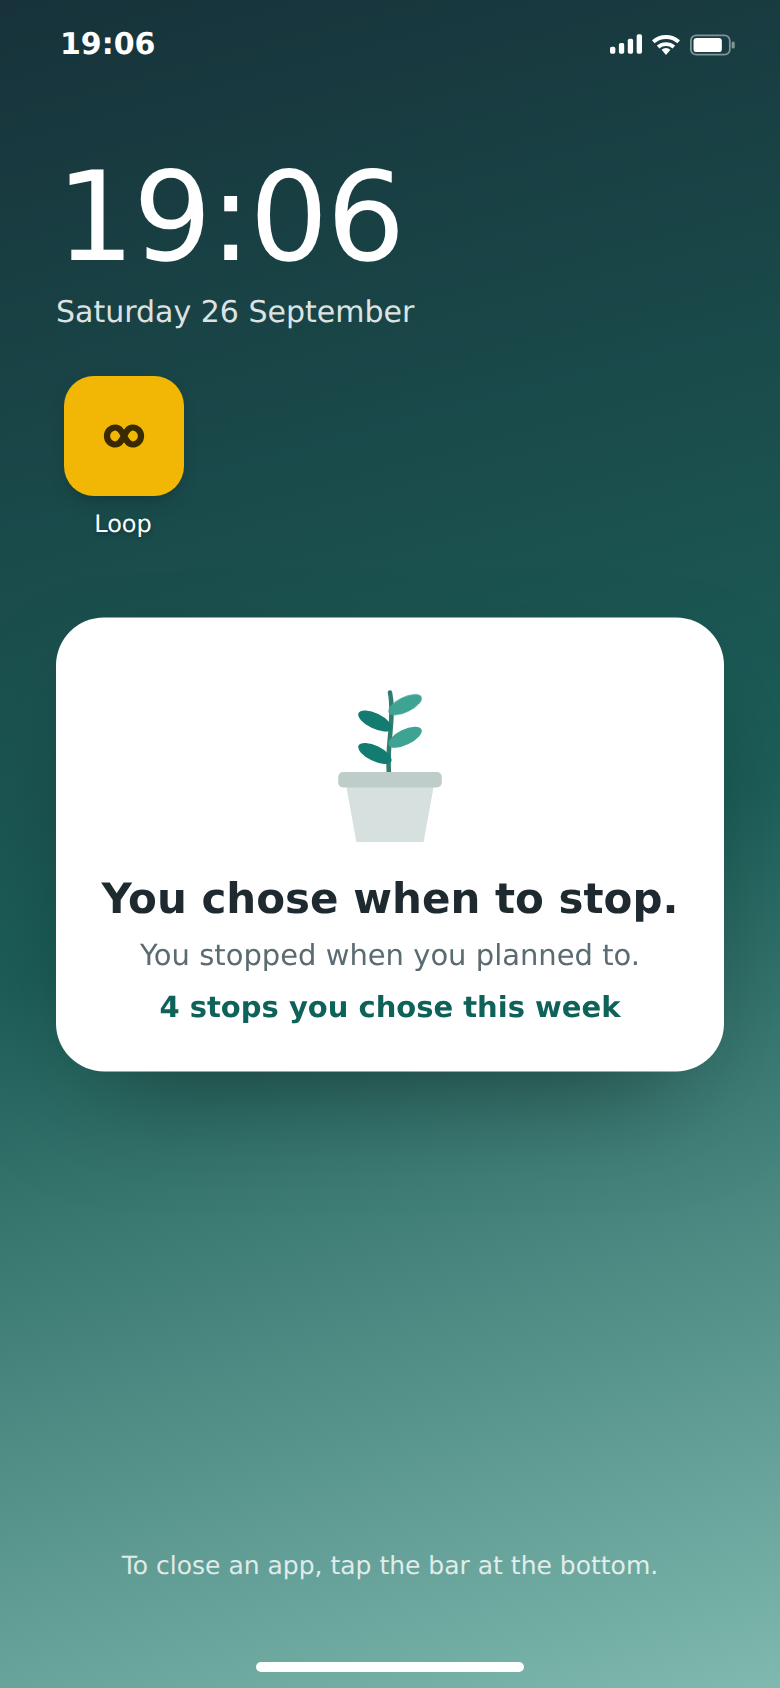
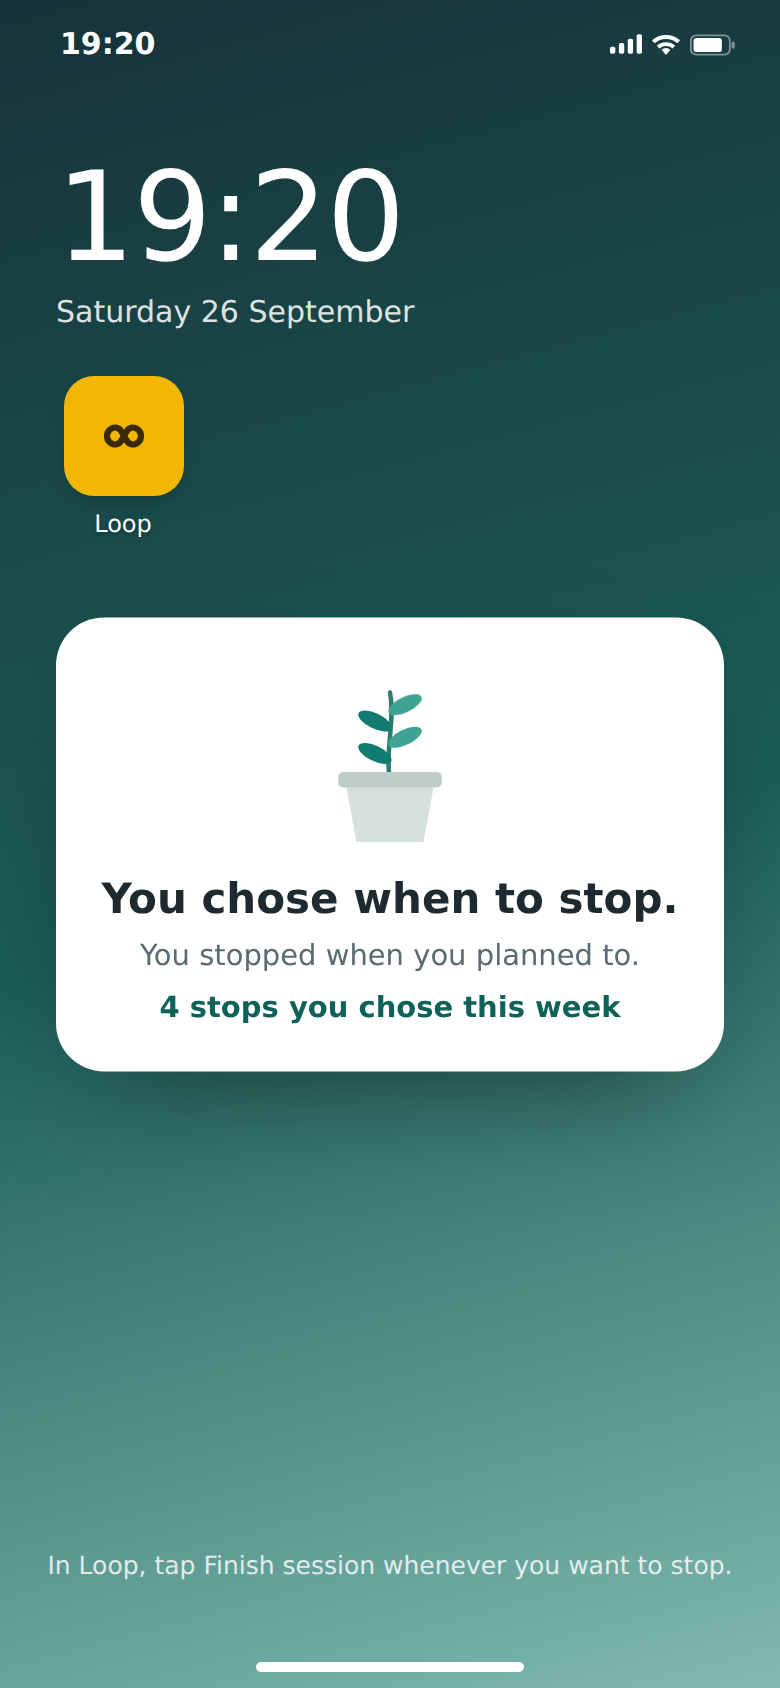
Add a visible Finish session button while the feed is open
A calm "Finish session" button sits in a strip above the home bar for the
whole Loop session, including after "5 more minutes", after changing
purpose, and in baseline. The feed ends above the strip so no post is
covered. Tapping it uses the existing voluntary stop (home, acknowledgement,
one leaf in the plant condition, no reward in baseline). The log records
finish_method (finish_button, checkpoint, home_bar). Screenshots and docs
updated.

Claude-Session: https://claude.ai/code/session_01DMhTpXsU3YFuW6W5HLrjFW

diff --git a/index.html b/index.html
@@ -98,7 +98,7 @@ body.pview .stage{grid-template-columns:minmax(0,1fr); justify-items:center}
 .splash[hidden]{display:none}
 .splash .tile{width:92px; height:92px; border-radius:24px; display:grid; place-items:center}
 .app-top{position:absolute; top:44px; left:0; right:0; height:52px; z-index:3; display:flex; align-items:center; justify-content:space-between; padding:0 16px; background:#fff}
-.feed{position:absolute; left:0; right:0; top:96px; bottom:0; overflow-y:auto; overscroll-behavior:contain; padding-bottom:96px; background:#fff}
+.feed{position:absolute; left:0; right:0; top:96px; bottom:80px; overflow-y:auto; overscroll-behavior:contain; padding-bottom:12px; background:#fff}
 .feed::-webkit-scrollbar{display:none}
 .feed{scrollbar-width:none}
 
@@ -206,12 +206,12 @@ body.pview .stage{grid-template-columns:minmax(0,1fr); justify-items:center}
 .ack-t{margin:4px 0 0; font-size:21px; font-weight:700}
 .ack-s{margin:6px 0 0; font-size:14.5px; color:var(--p-muted)}
 .ack .growth-cap{font-size:14.5px}
-.barlabel{position:absolute; left:50%; bottom:24px; z-index:9; transform:translateX(-50%); display:none; padding:9px 18px; border:0; border-radius:999px;
-  background:var(--p-teal); color:#fff; font-size:14.5px; font-weight:650; white-space:nowrap; box-shadow:0 8px 20px -8px rgba(0,0,0,.45)}
-.barlabel.on{display:block}
-.barlabel.quiet{padding:7px 15px; font-size:13.5px; background:rgba(30,42,48,.8)}
-.barlabel.quiet::after{background:rgba(30,42,48,.8)}
-.barlabel::after{content:""; position:absolute; left:50%; bottom:-5px; width:10px; height:10px; background:var(--p-teal); transform:translateX(-50%) rotate(45deg)}
+.exit-strip{position:absolute; left:0; right:0; bottom:0; height:80px; z-index:3; display:none; justify-content:center; align-items:flex-start;
+  padding-top:6px; background:#fff; border-top:1px solid #E6ECEB}
+.exit-strip.on{display:flex}
+.finish-btn{min-height:44px; padding:0 22px; border-radius:999px; border:1.5px solid #BFDCD7; background:var(--p-tint); color:var(--p-teal-2);
+  font-size:15px; font-weight:650; display:inline-flex; align-items:center; gap:8px}
+.finish-btn::before{content:""; width:10px; height:10px; border-radius:2px; background:currentColor; opacity:.85}
 .toast{position:absolute; left:50%; bottom:84px; transform:translateX(-50%); z-index:8; background:rgba(20,32,36,.9); color:#fff; font-size:13.5px;
   padding:9px 14px; border-radius:12px; width:max-content; max-width:86%; text-align:center; opacity:0; transition:opacity .2s; pointer-events:none}
 .toast.show{opacity:1}
@@ -298,13 +298,14 @@ dialog::backdrop{background:rgba(10,20,22,.45)}
       <div class="layer home on" id="home">
         <div class="widget" aria-hidden="true"><div class="w-time" id="wTime">9:41</div><div class="w-date" id="wDate"></div></div>
         <div class="grid" id="appGrid"></div>
-        <p class="home-hint">To close an app, tap the bar at the bottom.</p>
+        <p class="home-hint">In Loop, tap Finish session whenever you want to stop.</p>
       </div>
 
       <div class="layer app" id="appLayer">
         <div class="splash" id="splash"><div class="tile" id="splashTile"></div></div>
         <div class="app-top" id="appTop"></div>
         <div class="feed" id="feed"></div>
+        <div class="exit-strip" id="exitStrip"><button class="finish-btn" id="finishBtn" type="button">Finish session</button></div>
       </div>
 
       <div class="layer bk" id="bk"></div>
@@ -312,7 +313,6 @@ dialog::backdrop{background:rgba(10,20,22,.45)}
       <button class="notif" id="notif" type="button" aria-live="polite"></button>
       <div class="toast" id="toast" role="status"></div>
       <div class="ack" id="ack" role="status"></div>
-      <button class="barlabel" id="barLabel" type="button">Finish session</button>
       <button class="homebar" id="homebar" type="button" aria-label="Close app and go to the home screen"></button>
     </div>
   </div>
@@ -517,7 +517,7 @@ function save(){
 const el = {
   screen:$('#screen'), sbTime:$('#sbTime'), island:$('#island'), home:$('#home'), app:$('#appLayer'), splash:$('#splash'),
   splashTile:$('#splashTile'), appTop:$('#appTop'), feed:$('#feed'), bk:$('#bk'), call:$('#callLayer'),
-  notif:$('#notif'), toast:$('#toast'), homebar:$('#homebar'), ack:$('#ack'), barLabel:$('#barLabel')
+  notif:$('#notif'), toast:$('#toast'), homebar:$('#homebar'), ack:$('#ack'), exitStrip:$('#exitStrip'), finishBtn:$('#finishBtn')
 };
 
 /* ---------------- Time helpers ---------------- */
@@ -533,8 +533,7 @@ function updateChrome(){
   let light = false;
   if (s === 'home' || s === 'call') light = true;
   el.screen.classList.toggle('chrome-light', light);
-  el.barLabel.classList.toggle('on', s === 'app' && !!c);
-  el.barLabel.classList.toggle('quiet', !!c && !!(S.week.bar || {})[c.condition]);
+  el.exitStrip.classList.toggle('on', s === 'app' && !!c && !c.endType);
 }
 function showBk(html){ el.bk.innerHTML = html; el.bk.classList.add('on'); }
 function hideBk(){ el.bk.classList.remove('on'); el.bk.innerHTML = ''; }
@@ -691,7 +690,7 @@ function showCheckpoint(returning){
 function cpChoice(choice){
   const c = S.cur;
   c.checkpoints.push({title:c.cpTitle, choice, ms:Math.round(performance.now() - c.cpShownAt)});
-  if (choice === 'end') endSession('voluntary');
+  if (choice === 'end'){ c.finishVia = 'checkpoint'; endSession('voluntary'); }
   else if (choice === 'continue'){ c.cueEnd = c.elapsed + 5 * 60000; c.plan.ext++; openApp(); }
   else showPurpose('change');
 }
@@ -700,7 +699,6 @@ function endSession(type, interruption){
   const c = S.cur; if (!c || c.endType) return;
   clearTimers();
   c.endType = type; c.interruption = interruption || '';
-  if (c.startSim !== null || type !== 'declined'){ S.week.bar = S.week.bar || {}; S.week.bar[c.condition] = true; }
   c.endSim = S.sim; if (c.startSim === null) c.startSim = S.sim;
   c.speed = S.settings.speed; c.seed = S.week.seed || 0;
   if (type === 'voluntary' && c.condition === 'pause'){
@@ -736,12 +734,12 @@ function toRow(c){
     original_boundary_min:c.origCueMin ?? '',
     final_boundary_min:c.cueEnd != null ? +(c.cueEnd / 60000).toFixed(2) : '',
     time_speed:c.speed, run_mode:c.speed === 1 ? 'real_time' : 'accelerated_demo', duration_app_s:Math.round(c.elapsed / 1000), end_time:fmtHMS(c.endSim),
-    end_type:c.endType, interruption:c.interruption, within_boundary:c.within,
+    end_type:c.endType, finish_method:c.endType === 'voluntary' ? (c.finishVia || '') : '', interruption:c.interruption, within_boundary:c.within,
     reward_variant:c.rewardVariant, chosen_stops_after:c.stopsAfter, example_stops_at_start:c.seed, weekly_goal:c.goal,
     reflection:'', worthwhile:'', in_control:''
   };
 }
-const COLS = ['participant_id','session_number','session_id','condition','app','trigger','breath_pause','intro_shown','purpose','purpose_history','purpose_decision_ms','prompt_total_ms','time_cue_min','start_time','checkpoint_count','checkpoint_titles','checkpoint_choices','checkpoint_decision_ms','stop_within_1min_of_checkpoint_app_time','original_boundary_min','final_boundary_min','time_speed','run_mode','duration_app_s','end_time','end_type','interruption','within_boundary','reward_variant','chosen_stops_after','example_stops_at_start','weekly_goal','reflection','worthwhile','in_control'];
+const COLS = ['participant_id','session_number','session_id','condition','app','trigger','breath_pause','intro_shown','purpose','purpose_history','purpose_decision_ms','prompt_total_ms','time_cue_min','start_time','checkpoint_count','checkpoint_titles','checkpoint_choices','checkpoint_decision_ms','stop_within_1min_of_checkpoint_app_time','original_boundary_min','final_boundary_min','time_speed','run_mode','duration_app_s','end_time','end_type','finish_method','interruption','within_boundary','reward_variant','chosen_stops_after','example_stops_at_start','weekly_goal','reflection','worthwhile','in_control'];
 
 /* ---------------- Exit screens ---------------- */
 function plantSVG(count, goal, animate){
@@ -840,17 +838,22 @@ function goHome(){
 }
 
 /* ---------------- Home bar ---------------- */
-el.barLabel.addEventListener('click', () => el.homebar.click());
+/* Visible exit while the feed is open: same voluntary stop as the home bar. */
+el.finishBtn.addEventListener('click', () => {
+  const c = S.cur;
+  if (S.screen !== 'app' || !c || c.endType) return;
+  c.finishVia = 'finish_button'; endSession('voluntary');
+});
 el.homebar.addEventListener('click', () => {
   const c = S.cur;
   switch (S.screen){
-    case 'app': endSession('voluntary'); break;
+    case 'app': if (!c.endType){ c.finishVia = 'home_bar'; endSession('voluntary'); } break;
     case 'checkpoint':
       c.checkpoints.push({title:c.cpTitle, choice:'home', ms:Math.round(performance.now() - c.cpShownAt)});
-      endSession('voluntary'); break;
+      c.finishVia = 'home_bar'; endSession('voluntary'); break;
     case 'purpose':
       if (c.startSim === null){ c.promptMs = Math.round(performance.now() - c.pShownAt); endSession('declined'); }
-      else endSession('voluntary');
+      else { c.finishVia = 'home_bar'; endSession('voluntary'); }
       break;
     case 'breath': c.promptMs = Math.round(performance.now() - c.pShownAt); endSession('declined'); break;
     case 'reflect': finishSession('skipped'); break;

diff --git a/README.md b/README.md
@@ -24,14 +24,16 @@ Design references, adapted:
      the line underneath says what will happen.
    - One button, "Open Loop". Choosing a purpose or reminder only changes the setting;
      the feed opens when the user taps "Open Loop".
-   - While scrolling, a small pill shows the purpose and time since the feed opened, and
-     a "Finish session" label points at the home bar (highlighted on first use).
+   - While scrolling, a small pill shows the purpose and time since the feed opened. A
+     "Finish session" button sits just above the home bar whenever the feed is open
+     (also after "5 more minutes" and after changing purpose, and in baseline). The feed
+     ends above it, so it never covers a post.
    - At the reminder time, the timer pauses and a check-in shows "You came here for a
      break. It's been 10 minutes." with "Finish for now" and "5 more minutes", and
      "Change my purpose" as a smaller link. Continuing adds five minutes; changing
      purpose keeps the elapsed time.
 2. **Reward the Exit**
-   - Finishing (the check-in button or the home bar) ends the session and returns to
+   - Finishing ("Finish session", "Finish for now" at the check-in, or the home bar) ends the session and returns to
      the home screen straight away. A card shows the plant and "You chose when to
      stop." for a few seconds and fades on its own.
    - One leaf per finished session, counted once. Continuing keeps existing growth.
@@ -132,6 +134,8 @@ example_stops_at_start, weekly_goal, reflection, worthwhile, in_control`
 - Decision times (`*_ms`) are real milliseconds.
 - `run_mode` is `real_time` (1×) or `accelerated_demo` (10× or 60×). Compare durations
   only from `real_time` sessions.
+- `finish_method` is `finish_button`, `checkpoint` or `home_bar` for voluntary finishes, so
+  you can see whether people find the button.
 - `interruption` is `call`, `class` or `left_page` (the page was hidden mid-session).
 - `duration_app_s`, clock times and `stop_within_1min_of_checkpoint_app_time` use app
   time: it runs at `time_speed` and pauses on Pause screens. At 1× it equals real time.

diff --git a/presentation/evidence.md b/presentation/evidence.md
@@ -27,7 +27,7 @@ All in `presentation/screenshots/`, captured from the current prototype at phone
 | `01-home.png` | Simulated home screen; Loop is the only app that opens | Context |
 | `02-purpose-first-use-intro.png` | First use: one-line explanation of Pause, then "What brings you here?" | 1 |
 | `03-purpose-break-reminder-on.png` | Purpose chosen, reminder switched on, one "Open Loop" button | 1 |
-| `04-feed-first-use-finish-label.png` | Feed with the purpose pill; home bar labelled "Finish session" on first use | 1 |
+| `04-feed-finish-button.png` | Feed with the purpose pill and the "Finish session" button above the home bar | 1 |
 | `05-reminder-break.png` | Reminder: "You came here for a break. It's been 10 minutes." | 1 |
 | `06-change-purpose.png` | Change my purpose, with the elapsed session time kept | 1 |
 | `07-home-ack-A-planned.png` | Reward A on the home screen: "You chose when to stop." | 2 |
@@ -153,6 +153,7 @@ participants.
 | v6 | Leaving the page ends the session without a reward; each finish counted once | Only deliberate stops grow the plant |
 | v6 | Participant view is the default, with the plant reward on; console behind `?facilitator=1` | The plain link is the classroom demonstration |
 | v6 | Log records `run_mode` (`real_time` or `accelerated_demo`) | Keeps demo sessions out of duration comparisons |
+| v7 | A "Finish session" button sits above the home bar whenever the feed is open, in both conditions; the log records how each session was finished | People may not realise the home bar ends the session before the reminder |
 
 ### After the pilot
 
